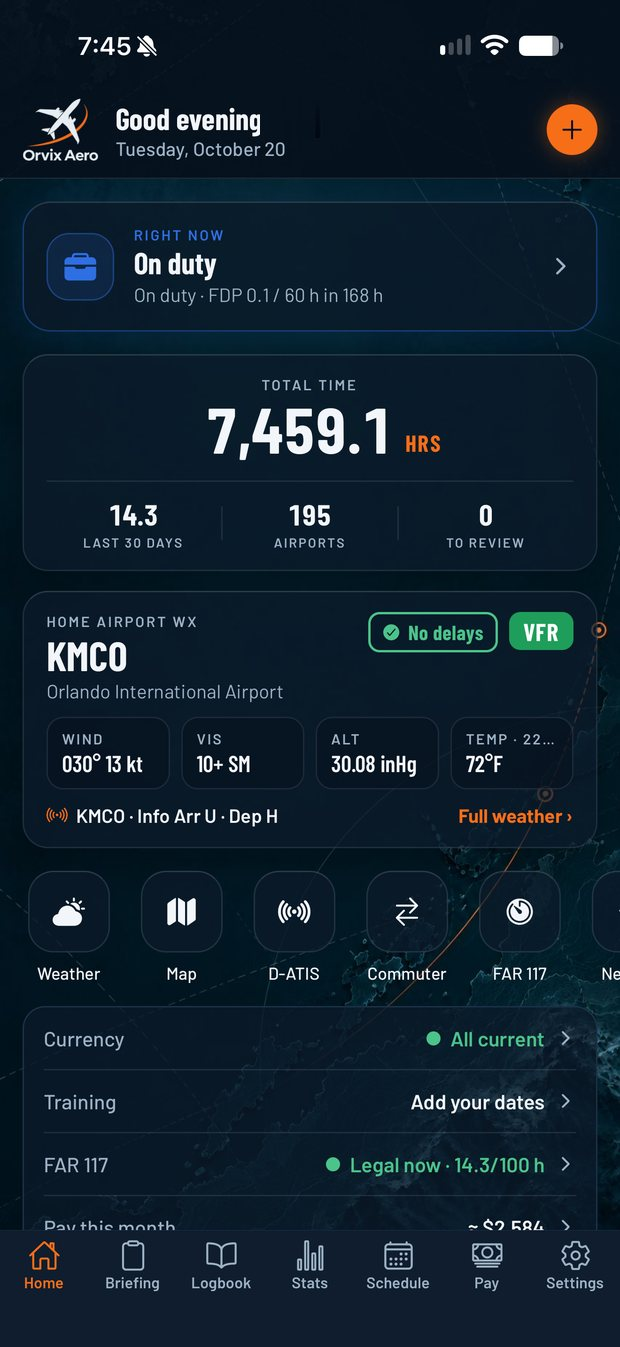
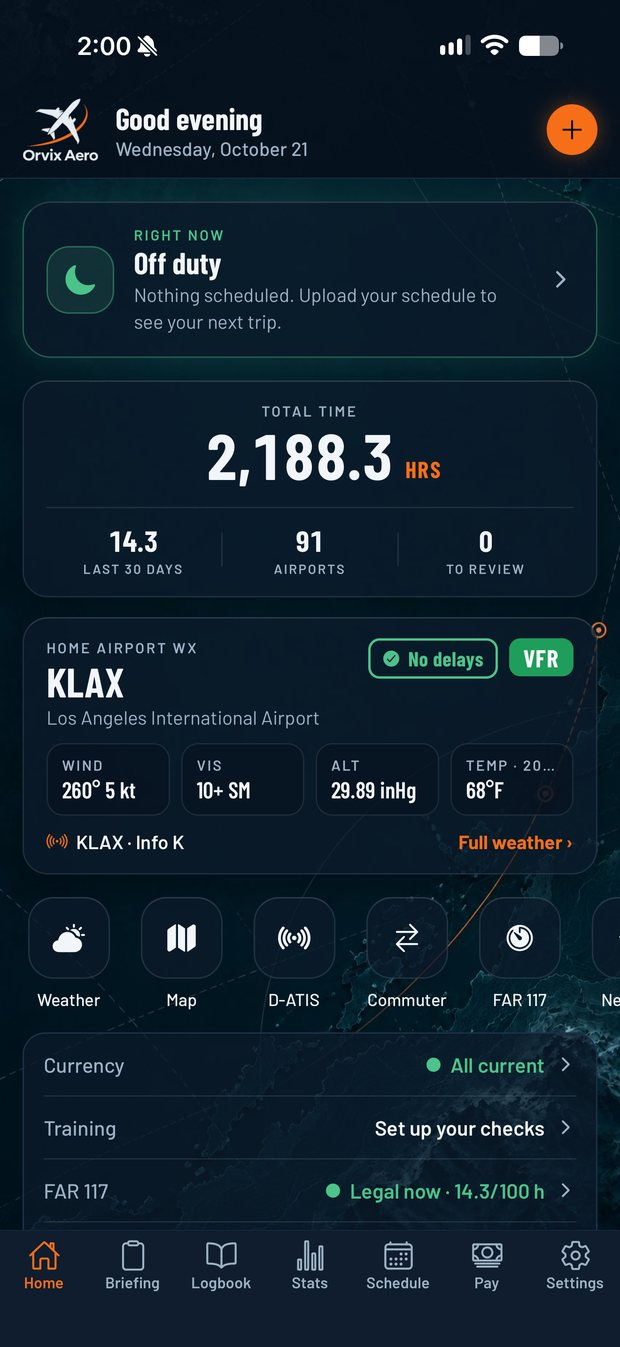
Homepage: new iPhone Home and Commuter screens
Claude-Session: https://claude.ai/code/session_01LNr6XAbakjsvgpBAvHYN6x

diff --git a/index.html b/index.html
@@ -321,12 +321,12 @@
             <figcaption><b>Your month at a glance</b><span>Trips, training and FAR 117 lights on one calendar.</span></figcaption>
           </figure>
           <figure class="shot lead">
-            <div class="phone"><picture><source srcset="shots/home.webp" type="image/webp"><img src="shots/home.jpg" alt="Orvix Aero home screen: on duty, total time 7,459 hours, KMCO weather and currency status" width="620" height="1347" loading="lazy" decoding="async"></picture></div>
+            <div class="phone"><picture><source srcset="shots/home.webp" type="image/webp"><img src="shots/home.jpg" alt="Orvix Aero home screen: duty status, total time, home airport weather and currency status" width="620" height="1347" loading="lazy" decoding="async"></picture></div>
             <figcaption><b>Everything for today</b><span>Duty status, total time, home airport weather and currency.</span></figcaption>
           </figure>
           <figure class="shot">
-            <div class="phone"><picture><source srcset="shots/stats.webp" type="image/webp"><img src="shots/stats.jpg" alt="Orvix Aero stats: FAR 117 cumulative limits with progress bars and an hours-by-month chart" width="620" height="1347" loading="lazy" decoding="async"></picture></div>
-            <figcaption><b>Limits before they bite</b><span>FAR 117 cumulative limits and hours by month.</span></figcaption>
+            <div class="phone"><picture><source srcset="shots/commuter.webp" type="image/webp"><img src="shots/commuter.jpg" alt="Orvix Aero commuter board: every nonstop LAX to DEN today, with live departure countdown, terminal and gate" width="620" height="1347" loading="lazy" decoding="async"></picture></div>
+            <figcaption><b>Your commute, live</b><span>Every nonstop to work, with gates, delays and alerts.</span></figcaption>
           </figure>
         </div>
       </div>
